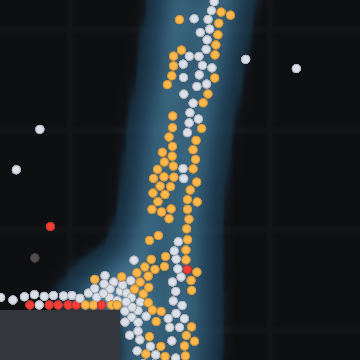
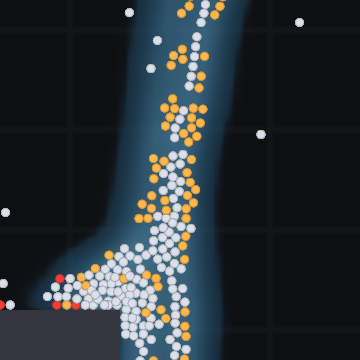
Regenerate the gallery after the antennae
The README claims its own invariant -- every image comes from `make
gallery` at a fixed seed, so the documentation cannot drift from what the
simulation does -- and letting ants feel walls changed the simulation
enough to make every quoted figure wrong.  Regenerated and requoted:

    40 s        trail   783 ->   969
    5 min       trail 73 282 -> 73 610
    source out  trail 113 163 -> 79 838
    +2 min      trail 15 470 -> 10 805
    +6 min      trail    283 ->    198
    collapse    pop 733/761/787 -> 747/773/793

The trail is weaker through the collapse because the colony is no longer
laying pheromone down the side of an obstacle while sliding along it, and
the populations are higher because it is delivering 55% more food.

The jam frame shows the change directly: the flat row of ants pressed
along the obstacle's top edge is gone.

diff --git a/README.md b/README.md
@@ -219,13 +219,13 @@ two different environments.
 
 ![Five seconds: no pheromone at all](docs/images/00-nothing.png)
 
-At **40 seconds** the total is 783 and one faint line runs from the food to the
+At **40 seconds** the total is 969 and one faint line runs from the food to the
 nest. That is the first ants home, laying the first pheromone.
 
 ![Forty seconds: the first thread](docs/images/01-searching.png)
 
 By **5 minutes** that thread has become a road — in fact two of them, which is
-the frame [above](#what-emerges). The total is 73 282 and the population has
+the frame [above](#what-emerges). The total is 73 610 and the population has
 grown from 150 to 267: the first turn of the loop that drives everything after
 it, where food comes in, workers are made, and more workers thicken the trail.
 
@@ -240,7 +240,7 @@ What happens over the next six is the part worth watching.
 
 ### The road outlives the source
 
-At the moment the source empties, the trail is at full strength — 113 163 units
+At the moment the source empties, the trail is at full strength — 79 838 units
 — and the colony is still pouring ants onto it.
 
 ![The source has just run out](docs/images/09-abandoned.png)
@@ -250,20 +250,20 @@ whatever pheromone is in front of it; an ant deposits only when it is carrying
 food. So the traffic continues and the renewal stops, and evaporation starts
 taking the road out from under the ants still walking it.
 
-**Two minutes later** the trail is down to 15 470 — 86% gone — and the ants are
+**Two minutes later** the trail is down to 10 805 — 86% gone — and the ants are
 still packed along the line where it was, including a knot where the food used
 to be. Not one of them is orange, because there is nothing left to carry.
 
 ![Two minutes on: walking a road that is dissolving](docs/images/10-fading.png)
 
-**Six minutes** and it is 283, from 113 163. The structure is simply gone, and
+**Six minutes** and it is 198, from 79 838. The structure is simply gone, and
 with it every trace of where the food had been. The colony disperses back into
 the random walk it started with — and the red ants are the ones that no longer
 have the reserve to try again.
 
 ![Six minutes on: nothing left](docs/images/11-collapsed.png)
 
-The population is *rising* through all three frames — 733, 761, 787 — because
+The population is *rising* through all three frames — 747, 773, 793 — because
 the colony is still converting its stored food into workers while its road
 dissolves. It is at its largest a few minutes after it has already lost.
 
